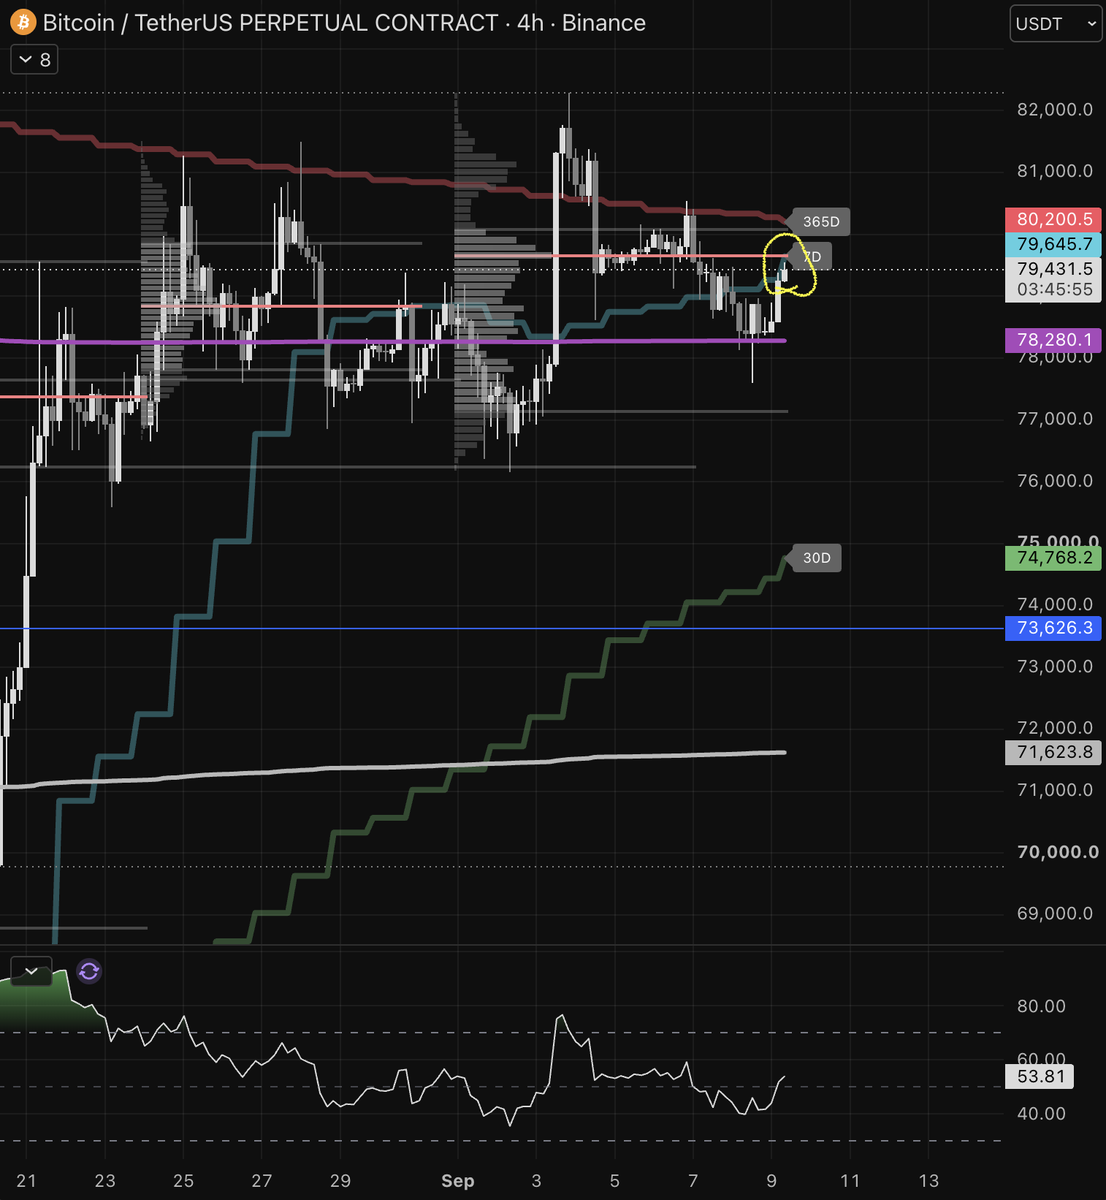
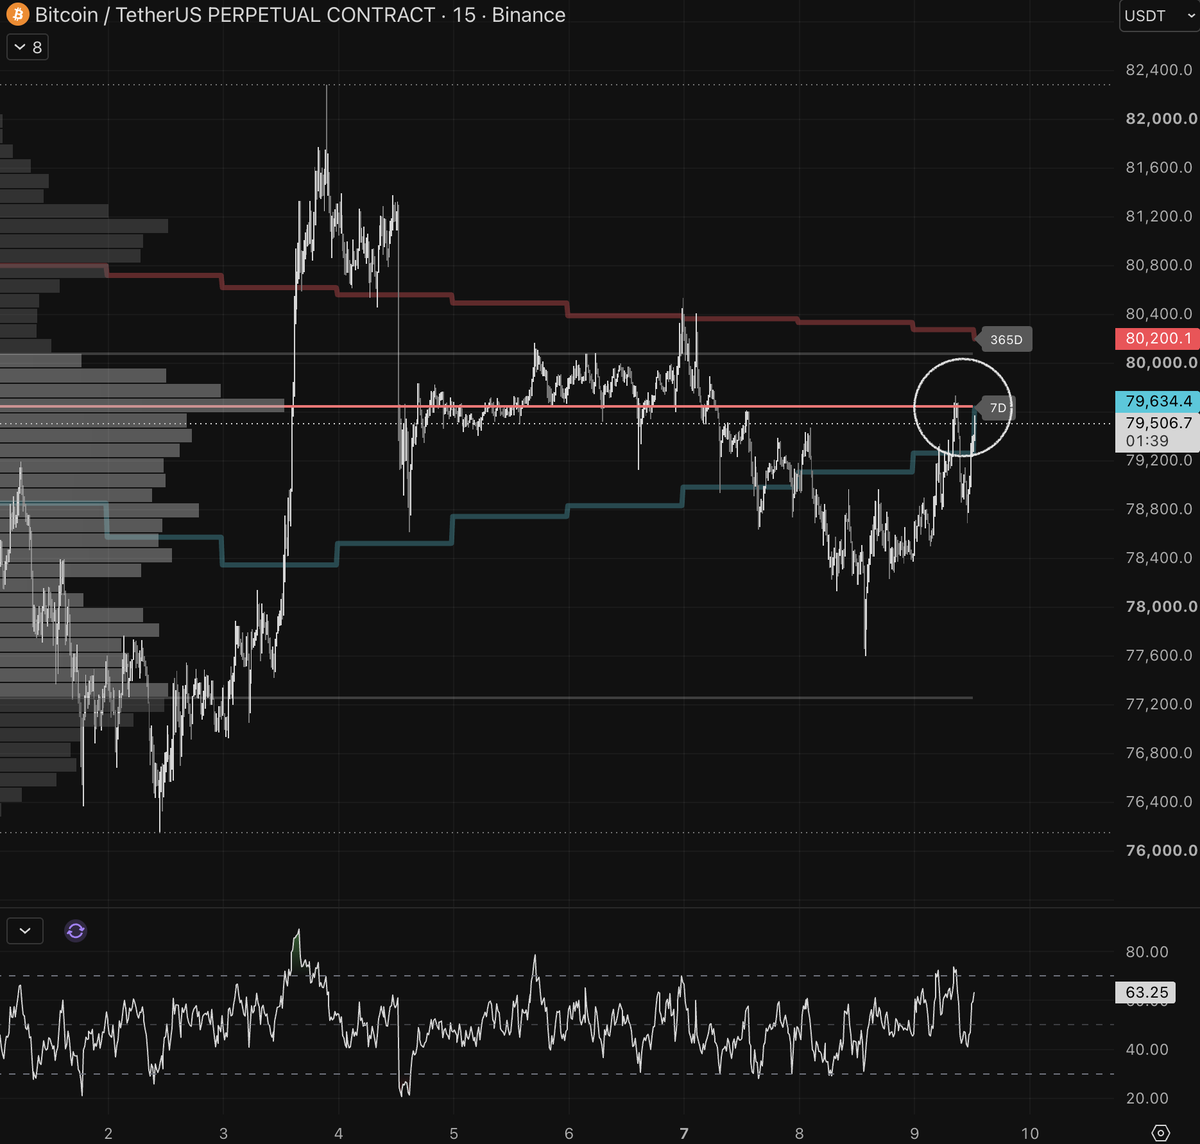
chore(x-trader-monitor): auto-commit 2026-09-09

diff --git a/memory/logs/2026-09-09.md b/memory/logs/2026-09-09.md
@@ -173,3 +173,11 @@ FOMC/Rate Hike Binary, Septembear Risk-Off, Privacy/ZEC-XMR, AI×Crypto Agentic 
 - Losers: ICP (−4.4%), JST (−4.4%), SKY (−3.7%), WLD (−2.9%), UNI (−2.5%), ARB (−2.2%), MORPHO (−1.9%), LINK (−1.6%), HBAR (−1.1%), BDX (−1.1%)
 - Trending: LAPTOP, STONKLESS [MICROCAP], NEAR [TRENDING+UP], ZEC [MAJOR][TRENDING+UP], VVV [BREAKOUT][TRENDING+UP], PONS, PENGU
 - Notable: ZCAT #242 +50.3% [PUMP-RISK][TRENDING+UP]; VVV accelerated +8.3%→+32.3% [BREAKOUT]; HYPE reversed −6.2%→+5.3% [MAJOR]; JUP reversed −8.3%→+5.5%; ZEC [MAJOR] 7d +58.6% still trending vs HCH short
+
+## x-trader-monitor (real-time event — 37/37)
+- trader: @bull_genius
+- tweet_id: 2097690490292343208
+- classification: informational
+- ticker(s): [$BTC]
+- alerted: yes
+- notes: BTC technical rejection analysis post; "another rejection, september poc + 7d rvwap hard ceiling for now / i think we make a 3rd attempt here but ehh / likely no breakout before cpi". Two chart images: (1) 1h Binance BTCUSDT perpetual showing volume profile + 365D VWAP (red ~80,199K), 7D VWAP (cyan ~79,610K), repeated rejection pattern at these confluence levels, market profile VAH/VAL/POC marked; (2) 15m Binance chart, price circled at 7D VWAP ~79,634K, clear rejection from 80,200 resistance zone, 30d/365d rVWAP structure visible below as support. Step 4C analysis: no first-person execution language ("just shorted", "placed limit order", "filled at X"). Language is predictive/conditional ("I think we make", "likely no breakout") and commentary on technical levels, not execution-oriented. Step 6 classification: informational technical analysis of BTC consolidation and macro catalyst awareness. Charts 100% readable; interpretations verified. Aligns with bull_genius's Sep 07-09 conviction: 365d VWAP confirmed resistance (4+ rejections Sep 07), trapped longs setup, hedging stance into CPI Sep 11 / FOMC Sep 16, expecting "full reset to ~72K" before sustained bull continuation (Sep 07 17:19Z). This post reinforces bearish short-term structure conviction with macro hedging posture. Step 8 memory updates: added to traders.md Sep 09 14:16Z event line. No ticker-focus update needed (BTC tracked by all). Alert sent to Kyle via ./notify at 2026-09-09T14:20:00Z with technical context. Dedup: tweet ID added to memory/x-trader-seen.txt. Last seen updated to 2026-09-09T14:16:00Z.

diff --git a/.outputs/x-trader-monitor.md b/.outputs/x-trader-monitor.md
@@ -1,27 +1,9 @@
-🐦 *[X] @Wild_Randomness*
+🐦 *[X] @bull_genius*
 
-$PUMP — 0.618 Fib retracement + 3-Drives pattern consolidation.
+Another rejection at september poc + 7d rvwap hard ceiling. 3rd attempt likely but skeptical on breakout before CPI.
 
-Price 0.004092 USDT (+6.53%), playing out well so far (17%). Big volume zone to clear between 0.0046 and 0.005 resistance levels.
-Perfect! I've executed the x-trader-monitor skill for the provided tweet event. Here's what happened:
+Charts: 1h + 15m BTCUSDT showing repeated rejection at 7D rVWAP (79.6K) + 365D resistance (80.2K). Market structure consolidation with trapped longs above.
 
-## Summary
+Macro backdrop: CPI Sep 11 / FOMC Sep 16 = de-risking window expected. Expects full reset to ~72K zone before sustained bull continuation.
 
-**Event**: Tweet from @t_in_crypto (ID: 2097684154871681247)
-- **Timestamp**: Sep 09 13:50:50 UTC 2026
-- **Text**: "@MylesGinvest https://t.co/8ZgxFf5bP8"
-- **Media**: Downloaded and analyzed image
-
-**Classification**: **SKIP (Non-financial)** — No alert sent
-
-The tweet contains a mention to @MylesGinvest with an attached media file. Step 7 image analysis revealed the media is a personal meme/reaction photo (not a financial chart or trading signal). Per the skill's Step 4A rules, non-financial content is skipped silently.
-
-[View tweet](https://x.com/t_in_crypto/status/2097682879828349410)
-[View tweet](https://x.com/Wild_Randomness/status/2097683584924704996)
-**Actions taken**:
-1. ✅ Added tweet ID (2097684154871681247) to `memory/x-trader-seen.txt` to prevent reprocessing
-2. ✅ Logged event details to `memory/logs/2026-09-09.md` (event #35)
-3. ✅ No notification sent (non-financial, silent skip per HR-1 protocol)
-4. ✅ No memory updates to traders.md (skip entries not logged per size discipline rules)
-
-The skill execution is complete. The event has been tracked and the tweet ID is now in the dedup list.
+[View post](https://x.com/bull_genius/status/2097690490292343208)

diff --git a/memory/topics/traders.md b/memory/topics/traders.md
@@ -294,6 +294,7 @@
 - Last seen: 2026-09-09T12:50:43Z
 - Last seen: 2026-09-09T12:54:59Z
 - **Events (rolling):**
+  - Sep 09 14:16Z — informational: BTC rejection at september poc + 7d rvwap hard ceiling; 3rd attempt anticipated but skeptical on breakout before cpi; 1h/15m rejection pattern; macro awareness [$BTC] [2097690490292343208]
   - Sep 09 12:55Z — ambiguous: @0xApheli0n technical chart comparison; image empty; "lines here" cryptic; HR-2 calibration sent [2097670100392325573]
   - Sep 09 12:45Z — informational: BTC key spot at 365d VWAP resistance + 7D support confluence; hedges tracking correctly into US open; no execution language [$BTC] [2097667801141899472]
   - Sep 09 11:53Z — skip: personal banter "everyone loves a giant pair of tits"; non-financial commentary [$NONE] [2097654652397371667]
